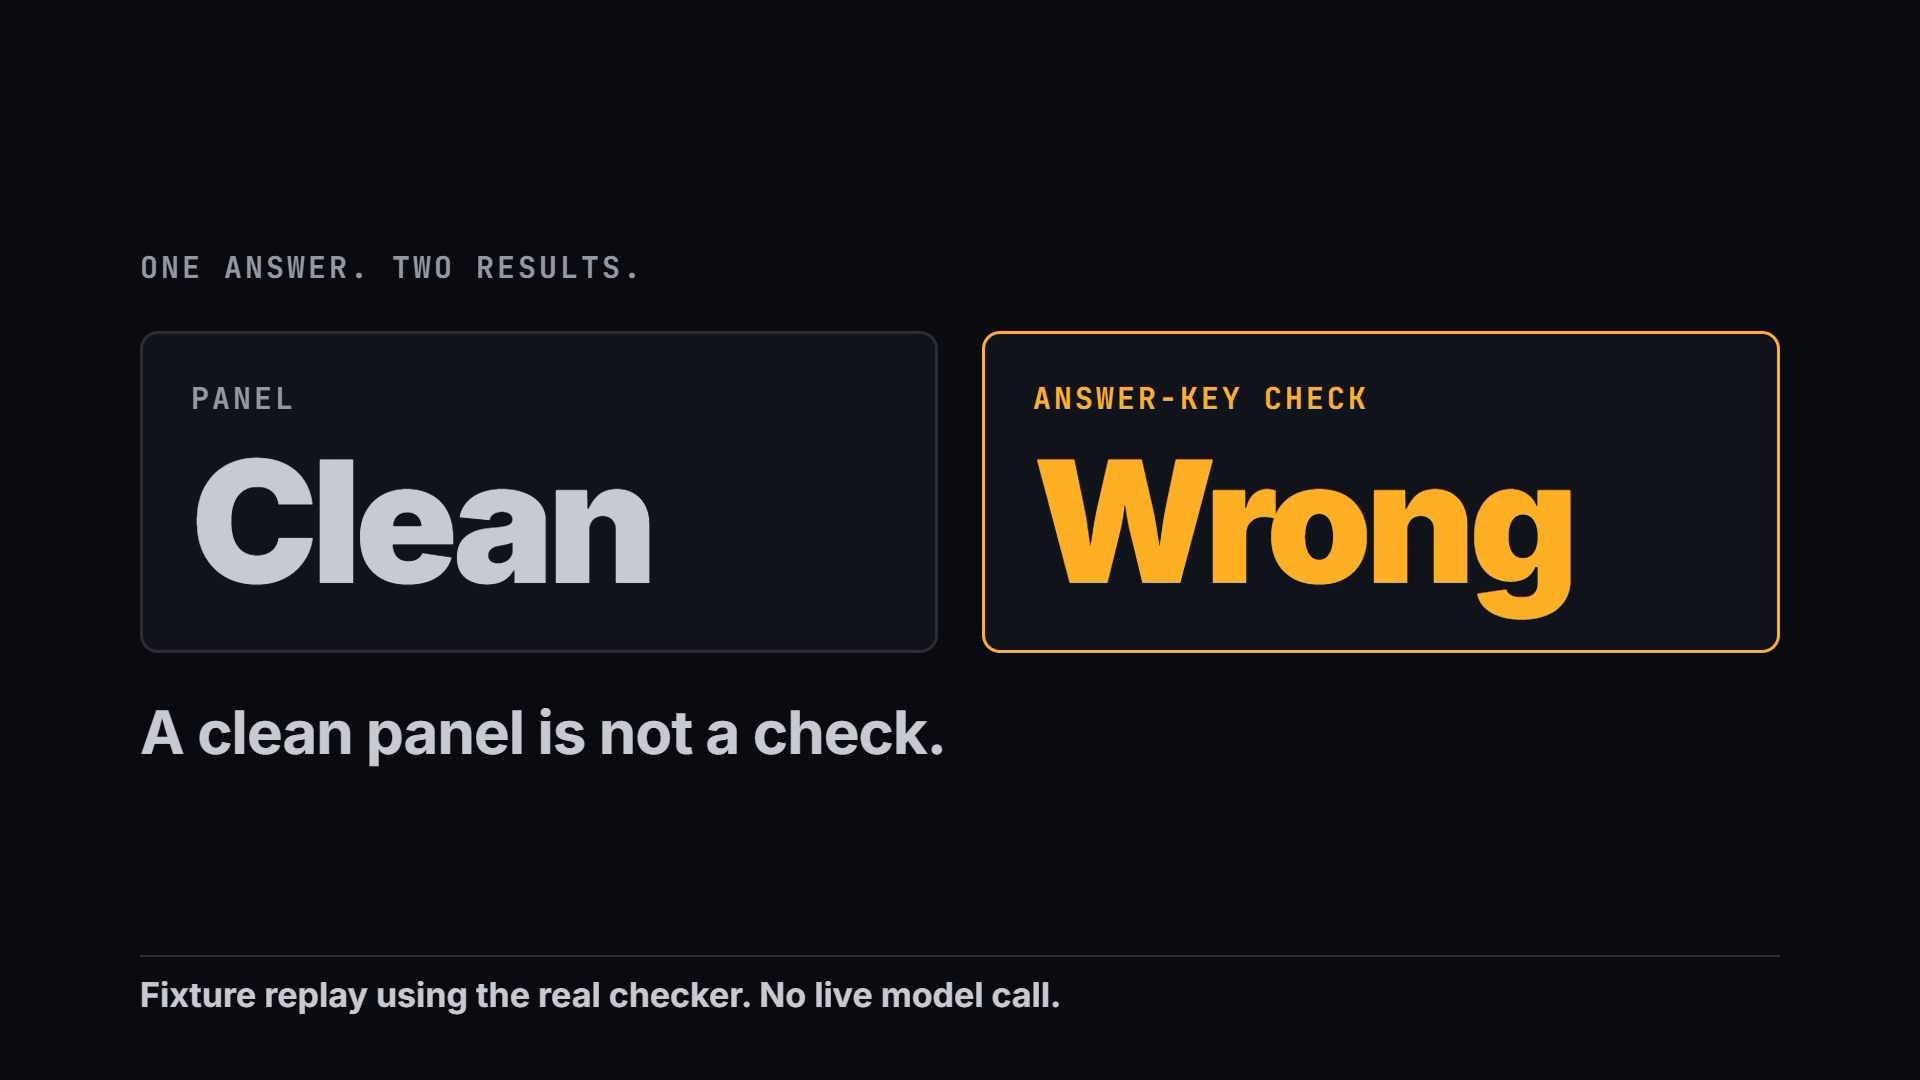
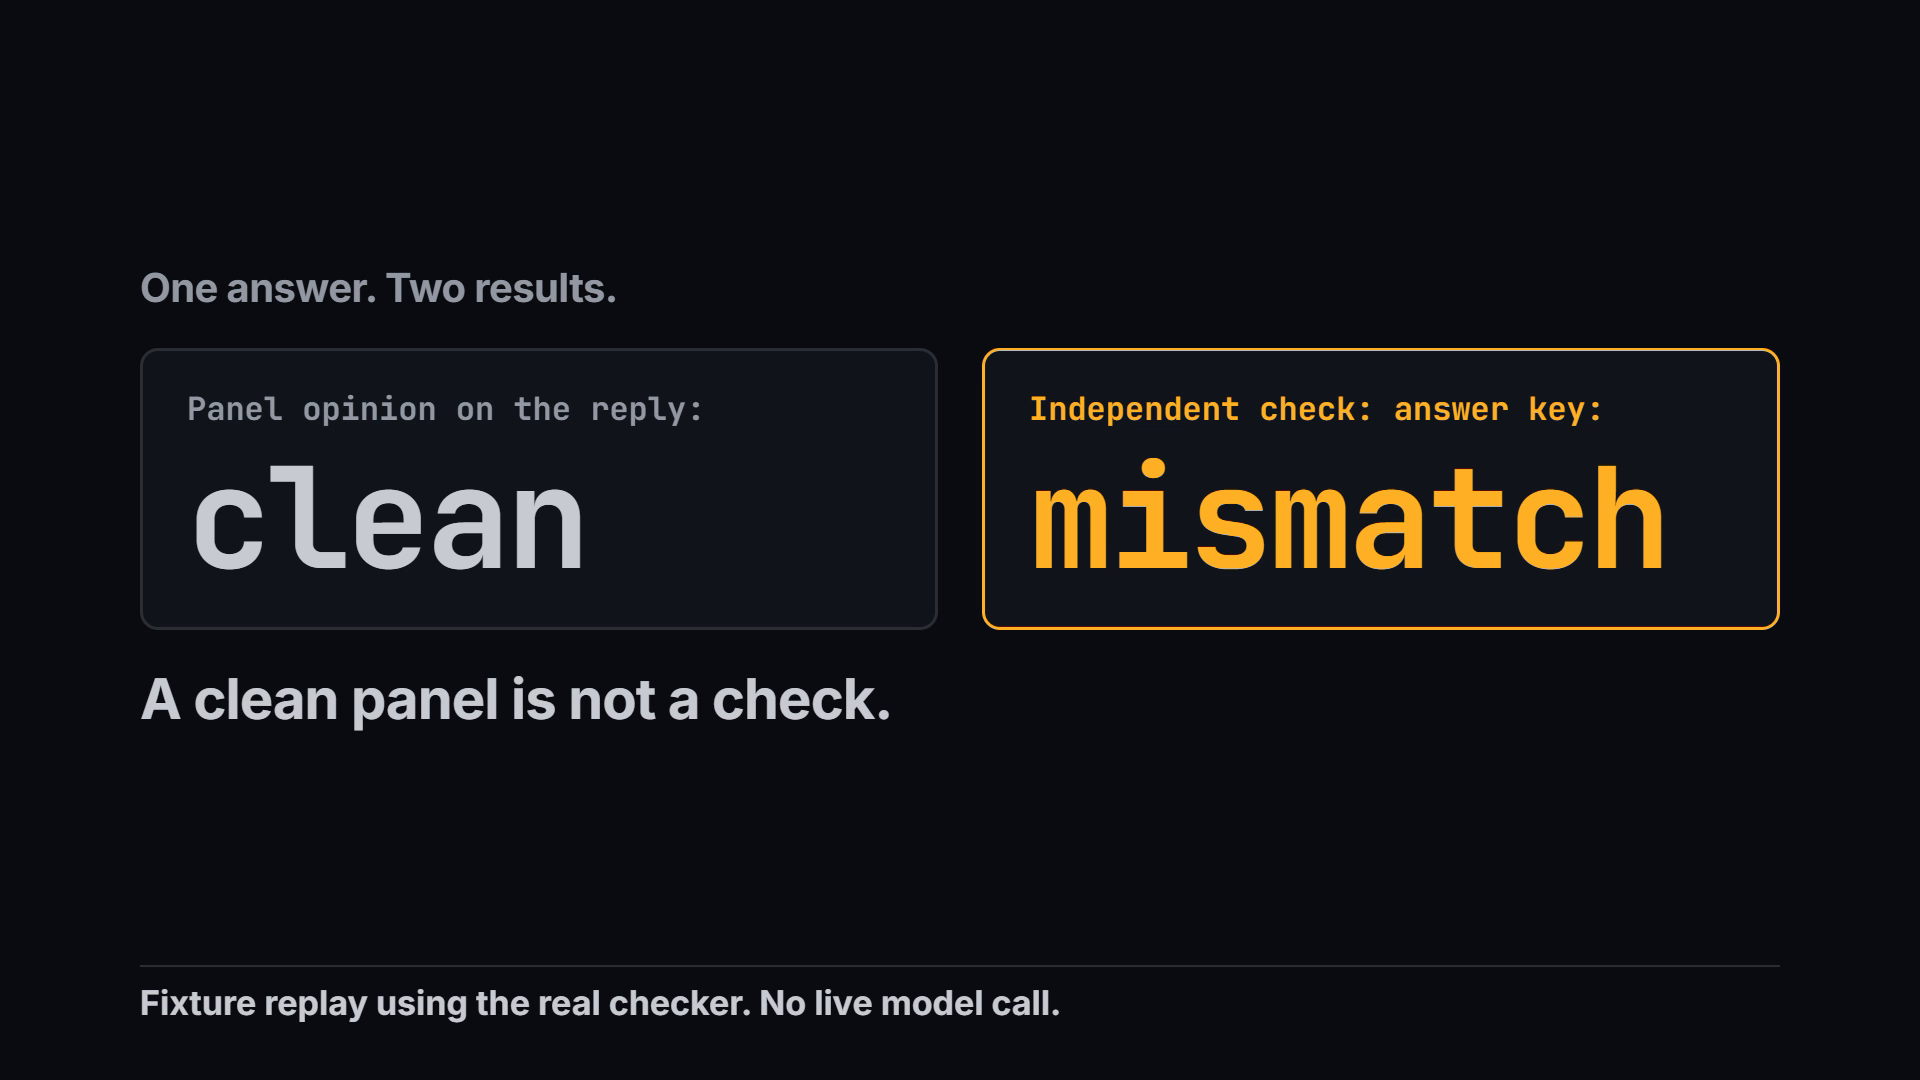
docs: point Start here at /three-cases and refresh the explainer thumbnail (#740)
The README had two Start here lines after the project index landed. The first
now leads with the no-install page; the index section is renamed. The thumbnail
is a frame from the reworded video, whose on-screen text is the demo's output.

diff --git a/README.md b/README.md
@@ -2,13 +2,13 @@
 
 TrustShell reads a **public GitHub Actions run** from GitHub and sets what your AI agent *said* beside what the run *reports*. Once installed, `check <run-url>` makes one kind of network call, to `api.github.com`: no account, no API key, no TrustShell server, and nothing of yours is uploaded. `GITHUB_TOKEN` is optional and only raises GitHub's rate limit. Public runs only, for now. (Other commands, such as checking one sentence or `--check hal`, call the hosted checkers, and say so where they are described below.)
 
-**Start here:** [trustshell.dev/lab/start](https://trustshell.dev/lab/start), a guided first run: try a saved example, test your own work, keep the report. **Or try Inspect:** [the five-minute challenge](https://trustshell.dev/inspect). Two example claims we wrote about a pinned run (one true, one false), the evidence that decides each, and an invitation to break it. No run URL yet? This one line needs none and works as written in bash, zsh and PowerShell (in PowerShell, type `npx.cmd` in place of `npx` if it says running scripts is disabled). It cites our own green CI run as proof for a different commit, so it prints CONTRADICTED and exits `1`, and [the run on GitHub](https://github.com/DealAppSeo/trustshell/actions/runs/39619591025) shows the real commit, `392797a`: `npx @hyperdag/trustshell@latest check https://github.com/DealAppSeo/trustshell/actions/runs/39619591025 --claims "The check workflow succeeded on commit 5d1c5e3f57e1, run 39619591025."`
+**Start here:** [trustshell.dev/three-cases](https://trustshell.dev/three-cases), three worked cases on one page, nothing to install. **Guided first run:** [trustshell.dev/lab/start](https://trustshell.dev/lab/start): try a saved example, test your own work, keep the report. **Or try Inspect:** [the five-minute challenge](https://trustshell.dev/inspect). Two example claims we wrote about a pinned run (one true, one false), the evidence that decides each, and an invitation to break it. No run URL yet? This one line needs none and works as written in bash, zsh and PowerShell (in PowerShell, type `npx.cmd` in place of `npx` if it says running scripts is disabled). It cites our own green CI run as proof for a different commit, so it prints CONTRADICTED and exits `1`, and [the run on GitHub](https://github.com/DealAppSeo/trustshell/actions/runs/39619591025) shows the real commit, `392797a`: `npx @hyperdag/trustshell@latest check https://github.com/DealAppSeo/trustshell/actions/runs/39619591025 --claims "The check workflow succeeded on commit 5d1c5e3f57e1, run 39619591025."`
 
-## Start here: the project index
+## The project index
 
 **Bring your AI. See what it checked. Keep the evidence behind the work.**
 
-[![Explainer video thumbnail. One answer, two results: the panel said clean, the answer-key check said wrong.](https://raw.githubusercontent.com/DealAppSeo/trustshell/main/docs/assets/explainer-thumbnail.png)](https://github.com/DealAppSeo/trustshell/blob/main/docs/START_HERE.md)
+[![Explainer video thumbnail. One answer, two results. Panel opinion on the reply: clean. Independent check: answer key: mismatch.](https://raw.githubusercontent.com/DealAppSeo/trustshell/main/docs/assets/explainer-thumbnail.png)](https://github.com/DealAppSeo/trustshell/blob/main/docs/START_HERE.md)
 
 Video link: not published yet. The project index, [docs/START_HERE.md](https://github.com/DealAppSeo/trustshell/blob/main/docs/START_HERE.md), lists what to try in order of effort, which repository to open for what, and what this does not do yet.
 

diff --git a/docs/START_HERE.md b/docs/START_HERE.md
@@ -10,9 +10,11 @@ This page was written and checked on 2026-11-20. Every command on it was run tha
 
 ## Explainer video
 
-![Explainer video thumbnail. One answer, two results: the panel said clean, the answer-key check said wrong.](assets/explainer-thumbnail.png)
+![Explainer video thumbnail. One answer, two results. Panel opinion on the reply: clean. Independent check: answer key: mismatch.](assets/explainer-thumbnail.png)
 
-Video link: not published yet (placeholder: `EXPLAINER_VIDEO_URL`). The link will replace this line. The image above is the first frame of the video.
+Video link: not published yet (placeholder: `EXPLAINER_VIDEO_URL`). The link will replace this line. The image above is a frame from the video's opening.
+
+No install: [trustshell.dev/three-cases](https://trustshell.dev/three-cases) shows the same three cases on one page.
 
 ## Try it, in order of effort
 
@@ -52,7 +54,7 @@ npm ci --legacy-peer-deps
 npx ts-node --transpile-only scripts/demo/checked-answer-demo.ts
 ```
 
-The install took fresh readers 24 to 40 minutes. The demo replays three made-up cases with no model call and prints, for each, the panel opinion, the independent check, and the outcome. The first diagram below is this demo. If you would rather not install, the full output is in [docs/CHECKED_ANSWER_DEMO.md](https://github.com/DealAppSeo/repid-engine/blob/main/docs/CHECKED_ANSWER_DEMO.md).
+The install took fresh readers 24 to 40 minutes. The demo replays three made-up cases with no model call and prints, for each, the panel opinion, the independent check, and the outcome. The first diagram below is this demo. If you would rather not install, [trustshell.dev/three-cases](https://trustshell.dev/three-cases) shows the three cases, and the full output is in [docs/CHECKED_ANSWER_DEMO.md](https://github.com/DealAppSeo/repid-engine/blob/main/docs/CHECKED_ANSWER_DEMO.md).
 
 **(e) Wrap an agent we did not write.** [`examples/external-agent`](https://github.com/DealAppSeo/trustshell/tree/main/examples/external-agent) in this repository puts the published package around someone else's agent and runs on your machine only. Its README has the commands, and shows the option that turns blocking on (`blockAtOrAbove`); without it, nothing is blocked.
 
